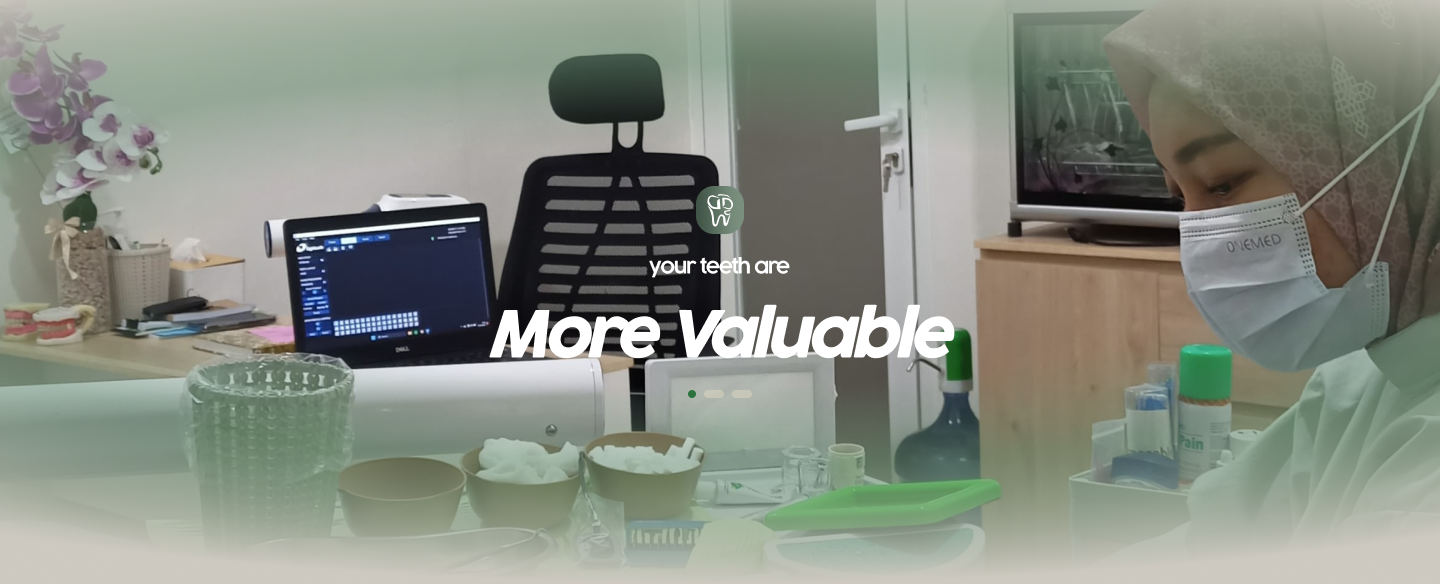
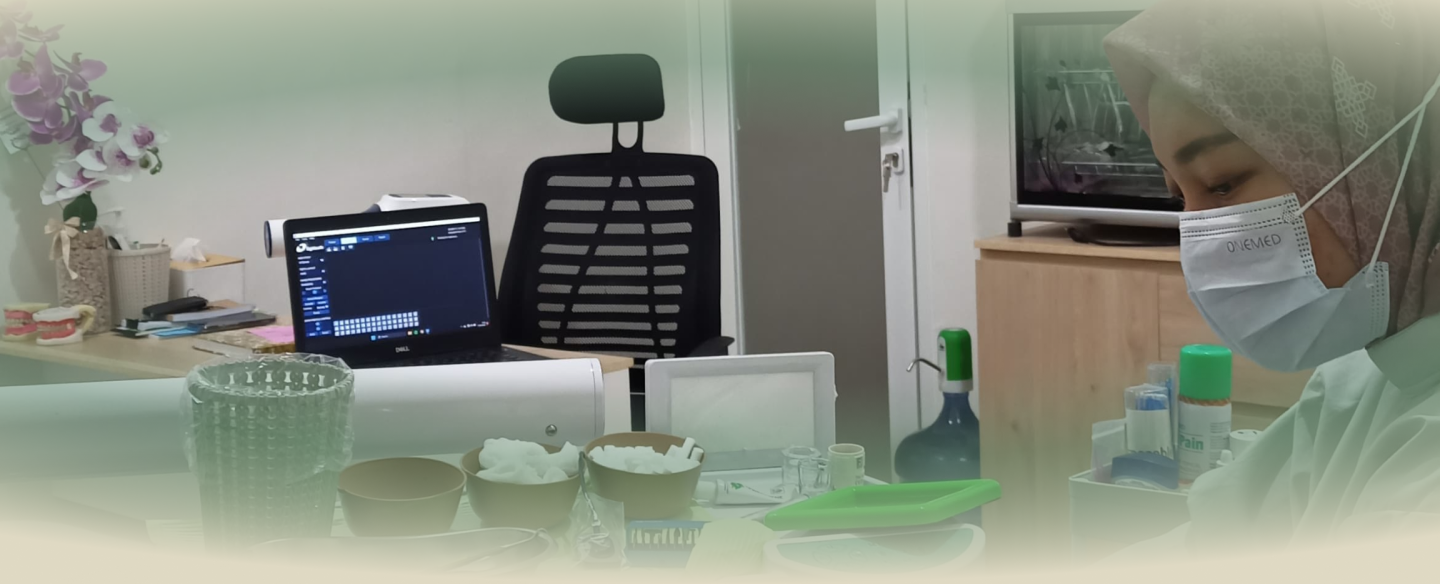
add hero section

Changed region(s): [[0.3438, 0.524, 0.6875, 0.6164], [0.4688, 0.3082, 0.5312, 0.4007], [0.4375, 0.4315, 0.5625, 0.4932]]

diff --git a/src/modules/LandingModule/sections/HeroSection/index.tsx b/src/modules/LandingModule/sections/HeroSection/index.tsx
@@ -1,0 +1,93 @@
+"use client";
+
+import React from "react";
+import "react-responsive-carousel/lib/styles/carousel.min.css";
+import { Carousel } from "react-responsive-carousel";
+import HeroDesktop1 from "../../../../../public/images/hero-desktop-1.png";
+import HeroDesktop2 from "../../../../../public/images/hero-desktop-2.png";
+import HeroDesktop3 from "../../../../../public/images/hero-desktop-3.png";
+import HeroMobile1 from "../../../../../public/images/hero-mobile-1.png";
+import HeroMobile2 from "../../../../../public/images/hero-mobile-2.png";
+import HeroMobile3 from "../../../../../public/images/hero-mobile-3.png";
+import Logo from "../../../../../public/images/logo-2.svg";
+import Image, { StaticImageData } from "next/image";
+import { useWindowSize } from "@uidotdev/usehooks";
+
+export const HeroSection = () => {
+  const { width } = useWindowSize();
+  const mobileHero = [HeroMobile1, HeroMobile2, HeroMobile3];
+  const desktopHero = [HeroDesktop1, HeroDesktop2, HeroDesktop3];
+  const heroInfo = [
+    {
+      alt: "Hero 1",
+      tagline1: "we want to see your",
+      tagline2: "Bright Smile",
+    },
+    {
+      alt: "Hero 2",
+      tagline1: "your teeth are",
+      tagline2: "More Valuable",
+      tagline3: "than diamond for us",
+    },
+    {
+      alt: "Hero 3",
+      tagline1: "we treat your beautiful smile",
+      tagline2: "with Heart",
+    },
+  ];
+
+  const renderCarouselItem = (items: StaticImageData[]) => {
+    return items.map((item, index) => {
+      const { alt, tagline1, tagline2, tagline3 } = heroInfo[index];
+
+      return (
+        <div className="relative" key={index}>
+          <Image src={item} alt={alt} />
+          <div className="absolute z-10 top-0 left-0 w-full h-full flex flex-col justify-center items-center gap-1 lg:gap-4">
+            <Image
+              src={Logo}
+              alt="DADC Logo"
+              className="!w-6 !h-6 lg:!w-12 lg:!h-12"
+            />
+            <span className="text-white font-semilight lg:text-lg">
+              {tagline1}
+            </span>
+            <span className="text-white italic text-3xl lg:text-6xl">
+              {tagline2}
+            </span>
+            {tagline3 && (
+              <span className="text-white font-semilight lg:text-lg">
+                {tagline3}
+              </span>
+            )}
+          </div>
+        </div>
+      );
+    });
+  };
+
+  return (
+    <section>
+      <Carousel
+        swipeable
+        emulateTouch
+        infiniteLoop
+        showArrows={false}
+        showStatus={false}
+        renderIndicator={(_clickHandler, isSelected) => {
+          return (
+            <li
+              className={`!h-2 !opacity-100 !shadow-none md:!mb-12 xl:!mb-28 !mx-1 !cursor-default dot ${
+                isSelected
+                  ? "!bg-bold-green !rounded-full !w-2"
+                  : "!bg-ash-white/50 !rounded-xl !w-6"
+              }`}
+            />
+          );
+        }}
+      >
+        {renderCarouselItem(width && width <= 768 ? mobileHero : desktopHero)}
+      </Carousel>
+    </section>
+  );
+};

diff --git a/src/app/layout.tsx b/src/app/layout.tsx
@@ -81,6 +81,19 @@ export default function RootLayout({
 }>) {
   return (
     <html lang="en">
+      <head>
+        {/* <link
+          rel="stylesheet"
+          type="text/css"
+          charSet="UTF-8"
+          href="https://cdnjs.cloudflare.com/ajax/libs/slick-carousel/1.6.0/slick.min.css"
+        />
+        <link
+          rel="stylesheet"
+          type="text/css"
+          href="https://cdnjs.cloudflare.com/ajax/libs/slick-carousel/1.6.0/slick-theme.min.css"
+        /> */}
+      </head>
       <body className={cocogoosePro.className}>
         <Navbar />
         {children}

diff --git a/tailwind.config.ts b/tailwind.config.ts
@@ -22,6 +22,7 @@ const config: Config = {
       colors: {
         "ash-white": "#DFD9C3",
         "ash-green": "#668F6F",
+        "bold-green": "#2D733E",
       },
     },
   },

diff --git a/src/modules/LandingModule/index.tsx b/src/modules/LandingModule/index.tsx
@@ -1,3 +1,5 @@
+import { HeroSection } from "./sections/HeroSection";
+
 export const LandingModule = () => {
-  return <></>;
+  return <HeroSection />;
 };
